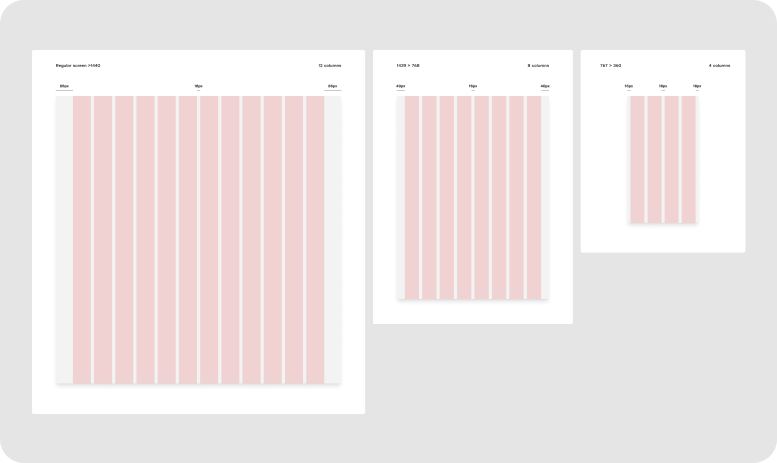
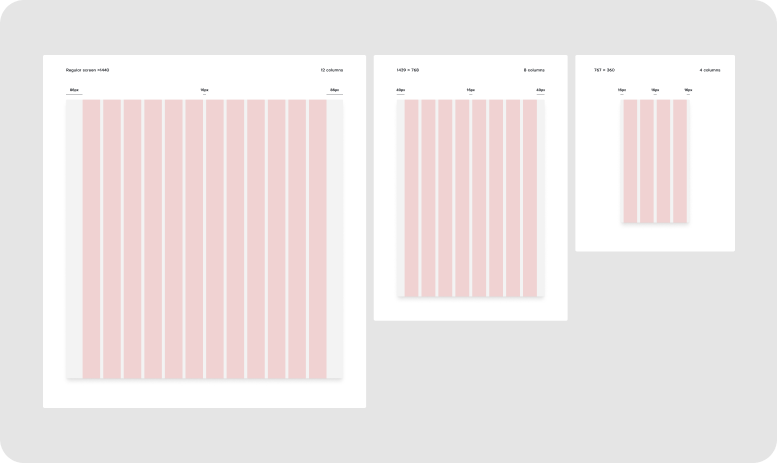
13

Changed region(s): [[0.0309, 0.0907, 0.9575, 0.9071], [0.8031, 0.1814, 0.8958, 0.4838]]

diff --git a/case-02.html b/case-02.html
@@ -371,8 +371,8 @@
                   <details class="case-accordion">
                     <summary class="case-accordion__summary">
                       <span class="case-accordion__label">
-                        <span class="case-accordion__icon" aria-hidden="true">🪟</span>
-                        Modal
+                        <span class="case-accordion__icon" aria-hidden="true">🚜</span>
+                        Icon packs
                       </span>
                       <span class="case-accordion__chevron" aria-hidden="true"></span>
                     </summary>
@@ -380,8 +380,14 @@
                       <div class="case-accordion__content-inner">
                         <img
                           class="case-accordion__img"
-                          src="./src/assets/img/cases/universal/accordeon-09.png"
-                          alt="Компонент Modal и его размеры"
+                          src="./src/assets/img/cases/universal/accordeon-07.png"
+                          alt="Набор 3D-иконок"
+                          decoding="async"
+                        />
+                        <img
+                          class="case-accordion__img"
+                          src="./src/assets/img/cases/universal/accordeon-07-glass.png"
+                          alt="Набор glass-иконок"
                           decoding="async"
                         />
                       </div>
@@ -415,8 +421,8 @@
                   <details class="case-accordion">
                     <summary class="case-accordion__summary">
                       <span class="case-accordion__label">
-                        <span class="case-accordion__icon" aria-hidden="true">🚜</span>
-                        Icon packs
+                        <span class="case-accordion__icon" aria-hidden="true">🪟</span>
+                        Modal
                       </span>
                       <span class="case-accordion__chevron" aria-hidden="true"></span>
                     </summary>
@@ -424,14 +430,8 @@
                       <div class="case-accordion__content-inner">
                         <img
                           class="case-accordion__img"
-                          src="./src/assets/img/cases/universal/accordeon-07.png"
-                          alt="Набор 3D-иконок"
-                          decoding="async"
-                        />
-                        <img
-                          class="case-accordion__img"
-                          src="./src/assets/img/cases/universal/accordeon-07-glass.png"
-                          alt="Набор glass-иконок"
+                          src="./src/assets/img/cases/universal/accordeon-09.png"
+                          alt="Компонент Modal и его размеры"
                           decoding="async"
                         />
                       </div>
@@ -506,7 +506,7 @@
                         <img
                           class="case-carousel__img"
                           src="./src/assets/img/cases/case-02-tokens-02.png"
-                          alt="Цветовые токены: шкалы Gray, Green и Blue"
+                          alt="Иконки: размеры, стрелки и бренд-набор"
                           width="777"
                           height="463"
                           loading="lazy"

diff --git a/index.html b/index.html
@@ -290,7 +290,7 @@
                   <dl class="case-card__meta">
                     <div>
                       <dt>Период работы</dt>
-                      <dd>2023 — 2026</dd>
+                      <dd>2024 — 2026</dd>
                     </div>
                     <div>
                       <dt>Главный результат</dt>